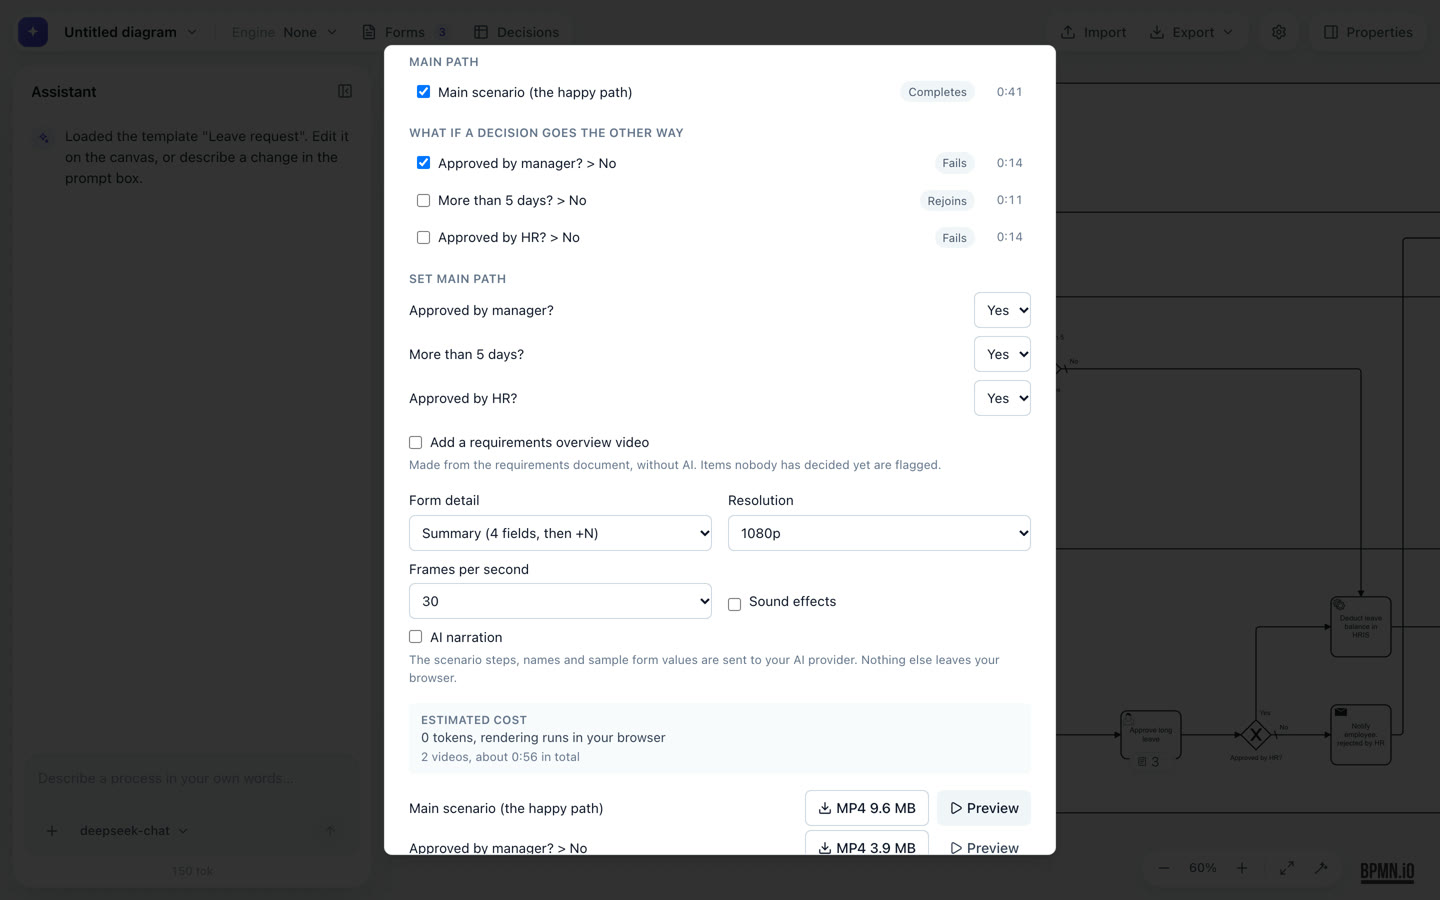
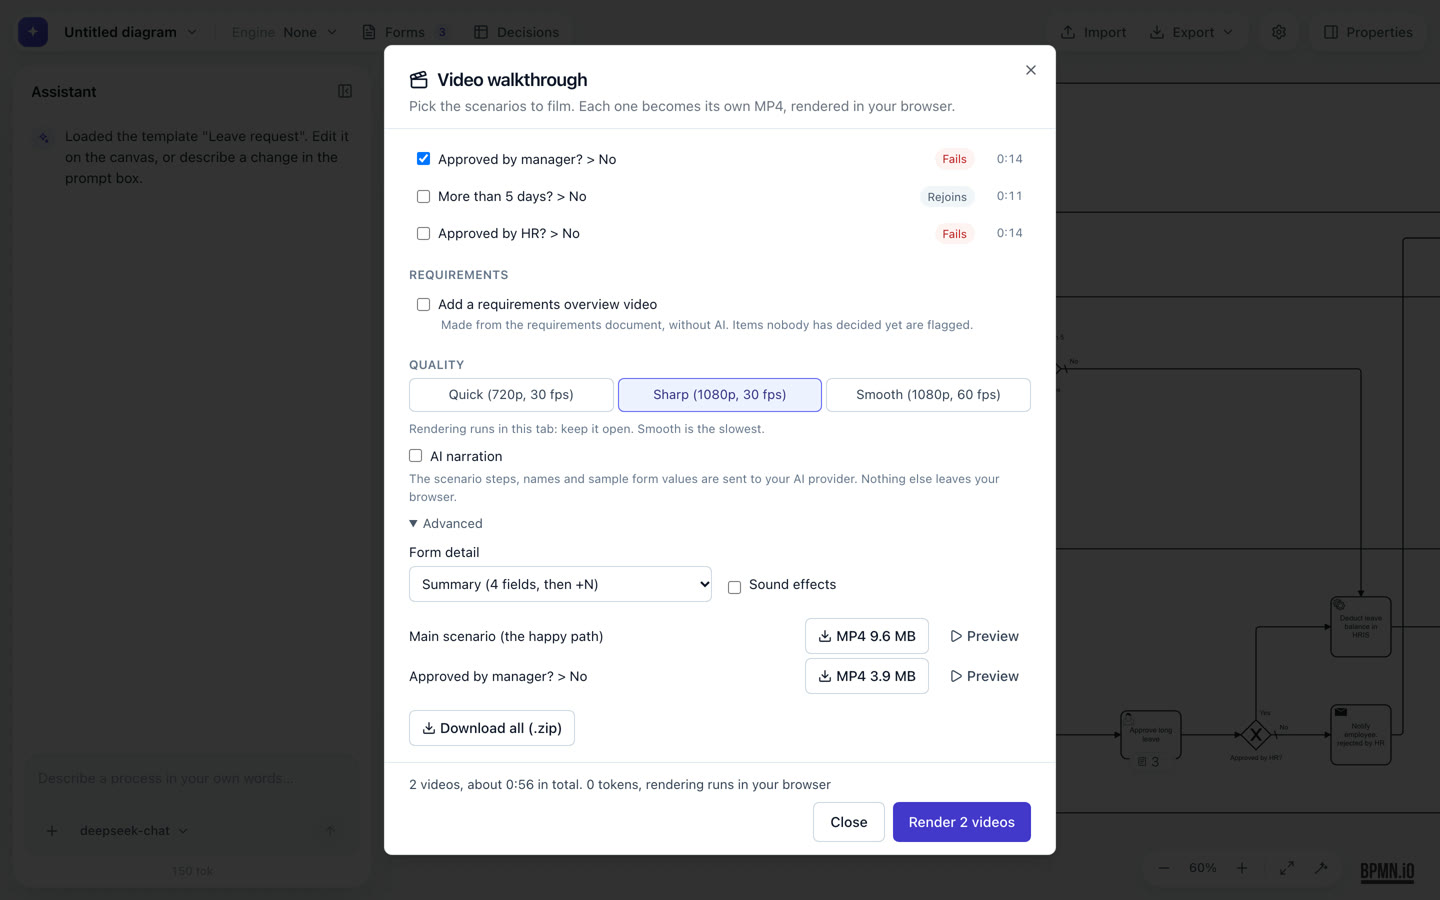
content: update BPMN AI Studio project page and video post to v0.14.0
Project page: requirements document and video walkthrough features, v0.12.0 to v0.14.0 milestones, tech stack, test counts and commit stats. Video post: quality presets, footer and zip download, with new dialog screenshots.

diff --git a/src/content/projects/bpmn-ai-studio.md b/src/content/projects/bpmn-ai-studio.md
@@ -1,8 +1,8 @@
 ---
 title: "BPMN AI Studio"
-description: "A browser app that turns a plain-language description of a work process into a standard BPMN diagram. You can change it by chatting, ask questions about it, and export it. It also makes the form for each step and the decision tables behind a decision, and prepares the diagram for Camunda 7 or 8. It uses your own AI key and has an English and Indonesian interface."
+description: "A browser app that turns a plain-language description of a work process into a standard BPMN diagram. You can change it by chatting, ask questions about it, and export it. It also makes the form for each step and the decision tables behind a decision, and prepares the diagram for Camunda 7 or 8. From the same diagram it writes a requirements document (PRD or SRS) and films a video walkthrough of the process, right in the browser. It uses your own AI key and has an English and Indonesian interface."
 featured: true
-technologies: ["React 19", "TypeScript", "Vite", "bpmn-js", "dmn-js", "Vercel AI SDK", "Zod", "Zustand", "Tailwind CSS", "Camunda moddle", "bpmnlint", "FEEL lint", "dnd-kit", "Vitest", "Playwright"]
+technologies: ["React 19", "TypeScript", "Vite", "bpmn-js", "dmn-js", "Vercel AI SDK", "Zod", "Zustand", "Tailwind CSS", "Camunda moddle", "bpmnlint", "FEEL lint", "dnd-kit", "docx", "WebCodecs", "mediabunny", "Vitest", "Playwright"]
 liveUrl: "https://bpmn-ai-studio.pages.dev/"
 githubUrl: ""
 image: "/images/bpmn-ai-studio/diagram-v011-en.png"
@@ -14,7 +14,7 @@ Every company has processes: approving leave, handling an order, fixing an IT pr
 
 **BPMN** (Business Process Model and Notation) is the international standard for these diagrams. Because it is a standard, a BPMN file can be opened in other tools like Camunda or bpmn.io. The problem is that drawing BPMN by hand takes time and training.
 
-BPMN AI Studio lets you type a process the way you would explain it to a colleague, for example *"the employee submits a leave request, the manager approves or rejects it, and HR updates the records"*, and get a clean BPMN diagram back. Since then it has grown past the picture. Each step that a person does can get its own form, a decision can get a decision table, and the same diagram can be prepared for a Camunda 7 or 8 engine. It is for people who need to explain or improve a process but do not know BPMN: HR and operations staff, process owners, business analysts, auditors, and students, and for developers who prepare a process for Camunda.
+BPMN AI Studio lets you type a process the way you would explain it to a colleague, for example *"the employee submits a leave request, the manager approves or rejects it, and HR updates the records"*, and get a clean BPMN diagram back. Since then it has grown past the picture. Each step that a person does can get its own form, a decision can get a decision table, and the same diagram can be prepared for a Camunda 7 or 8 engine. For people who will never read BPMN, it writes a requirements document and films the process as a short video. It is for people who need to explain or improve a process but do not know BPMN: HR and operations staff, process owners, business analysts, auditors, and students, and for developers who prepare a process for Camunda.
 
 ## Goals
 
@@ -25,6 +25,7 @@ BPMN AI Studio lets you type a process the way you would explain it to a colleag
 - Run with **no account and no app server**: the user brings their own AI key, and everything stays in the browser
 - Help a diagram reach a real engine: a **Camunda 7 or 8** file keeps its engine settings through an AI edit and an export, and a new diagram can be prepared for either engine, with placeholders and checks
 - Cover what a process needs around the diagram: the **form** each person fills in, and the **decision tables** behind a decision, both made and changed by chat
+- Explain the process to people who do not read BPMN: a **requirements document** and a **video walkthrough**, both made from the diagram, with AI only as an option
 
 ## Key Features
 
@@ -38,7 +39,7 @@ Since v0.6.0 the diagram fills the whole window, and everything else floats over
 
 ![The form builder for the User Task "Fill in leave form": a field palette on the left, a form with five fields (full name, leave type, start and end date, and a reason that is shown only when the leave type is Other), and an inspector on the right with Field, Validation and Logic tabs for the selected "Leave type" dropdown](/images/bpmn-ai-studio/forms-v011.png)
 
-6. **Decisions (DMN)**: DMN is the sister standard of BPMN, for decision tables. The **Decisions** button opens a workspace for decision tables next to the diagram. Ask *"buat tabel keputusan kredit: skor di bawah 600 ditolak, ..."* and the assistant writes the table. A Business Rule Task in the diagram links to the decision it calls, and one request can draw the process and write its tables together. `.dmn` files can be imported and exported.
+6. **Decisions (DMN)**: DMN is the sister standard of BPMN, for decision tables. The **Decisions** button opens a workspace for decision tables next to the diagram. Ask *"buat tabel keputusan kredit: skor di bawah 600 ditolak, ..."* and the assistant writes the table. A Business Rule Task in the diagram links to the decision it calls, and one request can draw the process and write its tables together. `.dmn` files can be imported and exported, and **Delete all decisions** clears them in one step, with Undo.
 
 ![The Decisions workspace in table view: a "Leave approver" decision table with the inputs Leave type and Days, the output Approver, five rules and the UNIQUE hit policy, with a details panel next to it](/images/bpmn-ai-studio/decisions-v011.png)
 
@@ -46,11 +47,18 @@ Since v0.6.0 the diagram fills the whole window, and everything else floats over
 
 ![A Camunda 8 diagram with the call activity "Check leave balance" selected, the Properties card open on its "Called element" field, and the issues card showing "Engine checks (2)" with a Show link for each check](/images/bpmn-ai-studio/properties-v011.png)
 
-8. **Import and export**: open a `.bpmn` or `.dmn` file, and download the diagram as **PNG** (for documents and chat), SVG, or `.bpmn`. Decisions export as `.dmn`.
-9. **Image input**: attach a photo of a whiteboard sketch, and the AI reads the process from it. The attach button follows the chosen model and is switched off for a model that cannot read images.
-10. **Workspace**: keep several diagrams, each with its own chat, history, forms and decisions, and back them all up to one JSON file. Six ready-made templates (English and Indonesian) let you start without a key.
-11. **Two languages**: the interface is in English and Indonesian. It follows the browser language and can be changed in Settings. The AI answers in the language the user writes in. The labels of the Properties panel are still English.
-12. **Bring your own key**: choose OpenAI, Anthropic Claude, Google Gemini, DeepSeek (the default, because it is cheap), or any OpenAI-compatible endpoint. The model list is loaded from the provider and shows chat models only, and the defaults are current ones (Claude Sonnet 5.5, GPT-6 Luna, Gemini 3.5 Flash-Lite). There is a **Test connection** button, a **Clear stored key** button, and an approximate session cost in USD next to the token count. When the credit or quota of a key is used up, the app says so at once instead of retrying.
+8. **Requirements document**: **Export → Requirements document…** reads the diagram, its forms and its decisions and writes a PRD or an SRS, in English or Indonesian: actors, steps, user stories, business rules from the gateways, acceptance criteria, a data dictionary from the forms, a traceability matrix and the open questions. Sections can be switched off or edited in place, and a section you edited is marked outdated when the diagram changes. **Write with AI** drafts only the narrative parts (summary, goals, scope), which you apply or discard. Download it as PDF (print), Word or Markdown.
+9. **Video walkthrough**: **Export → Video walkthrough…** films the process as MP4 videos, rendered in the browser. You pick the main path (and which way each decision goes), what-if videos for the other branches and for exceptions, the message exchange between pools, and an optional requirements overview. Forms fill themselves in with sample values, decision tables are checked with sample inputs, and the walk goes inside subprocesses. Quality is one choice (Quick 720p, Sharp 1080p, Smooth 1080p at 60 fps), and finished videos can be previewed, downloaded one by one, or saved together as a zip. With AI narration off it costs 0 tokens, and the footer of the dialog shows the cost before anything is sent. How it works: [Turning a BPMN Diagram into a Video, Entirely in the Browser](/blog/bpmn-diagram-to-video).
+
+![The Video walkthrough dialog for the leave-request process: the main scenario and the what-if "Approved by manager? > No" picked, the Sharp quality preset, and a footer with 2 videos, about 0:56 and 0 tokens](/images/bpmn-video/dialog.jpg)
+
+![A frame of the exported main-scenario video: the decision "More than 5 days?" lit on the diagram, and the card on the right showing the chosen Yes branch](/images/bpmn-video/main-decision.jpg)
+
+10. **Import and export**: open a `.bpmn` or `.dmn` file, and download the diagram as **PNG** (for documents and chat), SVG, or `.bpmn`. Decisions export as `.dmn`, the requirements document as PDF, Word or Markdown, and the walkthrough as MP4 (WebM where the browser has no MP4 encoder).
+11. **Image input**: attach a photo of a whiteboard sketch, and the AI reads the process from it. The attach button follows the chosen model and is switched off for a model that cannot read images.
+12. **Workspace**: keep several diagrams, each with its own chat, history, forms and decisions, and back them all up to one JSON file. Six ready-made templates (English and Indonesian) let you start without a key.
+13. **Two languages**: the interface is in English and Indonesian. It follows the browser language and can be changed in Settings. The AI answers in the language the user writes in. The labels of the Properties panel are still English.
+14. **Bring your own key**: choose OpenAI, Anthropic Claude, Google Gemini, DeepSeek (the default, because it is cheap), or any OpenAI-compatible endpoint. The model list is loaded from the provider and shows chat models only, and the defaults are current ones (Claude Sonnet 5.5, GPT-6 Luna, Gemini 3.5 Flash-Lite). There is a **Test connection** button, a **Clear stored key** button, and an approximate session cost in USD next to the token count. When the credit or quota of a key is used up, the app says so at once instead of retrying.
 
 ## Architecture
 
@@ -90,6 +98,8 @@ localStorage (diagrams, chat, snapshots, forms, decisions, settings; storage sch
 - **camunda-bpmn-moddle, zeebe-bpmn-moddle, camunda-dmn-moddle, zeebe-dmn-moddle**: let the canvas read and write Camunda 7 and 8 attributes, for diagrams and decisions, so imported engine settings are not dropped
 - **bpmnlint**: runs in the app as **Engine checks**, with the Camunda compatibility rules for 7.20 to 7.24 and 8.6 to 8.11 plus my own Camunda 7 rules. It loads only for a Camunda diagram. A developer script still checks `.bpmn` files
 - **dnd-kit**: drag and drop in the form builder, also with the keyboard
+- **docx**: writes the Word version of the requirements document. It loads only when you click Word
+- **WebCodecs + mediabunny**: encode the walkthrough videos in the browser, from a Canvas 2D renderer. Sound effects are synthesised with an `OfflineAudioContext`, so there are no audio files. mediabunny loads only when the first video is encoded
 - **Vercel AI SDK**: one way to talk to all the AI providers, with streaming
 - **Zod**: checks that the model's JSON has the right shape
 - **Zustand**: app state
@@ -127,13 +137,16 @@ Diagrams and undo snapshots moved to new storage keys in v0.4.0. On first open, 
 ### Plain-language errors
 Provider errors (wrong key, no credit, rate limit, network) become short sentences with the provider name. Warnings use element names instead of ids. A **Copy diagnostics** button copies a report (with keys removed), and I can turn that report into a test fixture. A used-up credit or quota now says so at once instead of retrying six times.
 
+### The video walks the process like a token
+The forms walkthrough only followed sequence flows from the first start event. Measured on the 26 sample diagrams in the repo, 14 had parts it never reached (boundary events, subprocesses, link jumps, other pools). So the video has its own pure walker that moves like a BPMN token: parallel splits as one group, loops walked once, branches that rejoin the main path, subprocesses entered and left. After it come a storyboard (scenes as plain data), a renderer that draws any moment `t`, and the encoder. The optional AI only rewrites captions, and a scene it gets wrong keeps its data caption, so the video never depends on the model.
+
 ### A separate release branch
 Daily work goes to `main`, where every push runs build and lint (about one minute). The live site deploys only from a `release` branch on Cloudflare Pages. I move `main` to `release` with a fast-forward merge after build, lint, unit tests, and browser tests are green, so testers only see a version that passed everything.
 
 ### Tests
 - **16 selfcheck files**: small scripts that run the core pipeline modules in Node (schema, normalize, validation, XML, layout, diff)
-- **3,201 Vitest tests** in 300 files, including property tests that generate random valid diagrams and check the round trip, and a corpus of about 250 diagrams for layout quality
-- **432 Playwright browser tests** in 68 files, using a mock AI server that sends fixed answers. They run in parallel against a production build in about two minutes. One suite runs the same edits through the patch path and the full import path, and both must give the same diagram
+- **3,629 Vitest tests** in 338 files, including property tests that generate random valid diagrams and check the round trip, and a corpus of about 250 diagrams for layout quality
+- **452 Playwright browser tests** in 70 files, using a mock AI server that sends fixed answers. They run in parallel against a production build in about two minutes. One suite runs the same edits through the patch path and the full import path, and both must give the same diagram
 - A **live eval** with real prompts against a real provider, scoring each edit for compliance and precision (nothing else touched), now also for decision tables and the router. It needs an API key, so it runs by hand, not in CI
 - A **Docker smoke test** that deploys sample diagrams and decisions to Camunda 7.22 and 8.8.5. It is not part of CI
 
@@ -153,6 +166,9 @@ Releases on the way (the live site deploys from the `release` branch):
 - **v0.7.0 (1 Nov)**: forms for every User Task, the walkthrough, and an easier-to-read layout. **v0.8.0 (1 Nov)**: selection as context. **v0.8.1** lets answers see forms and the screen.
 - **v0.9.0 (2 Nov)**: decisions (DMN). **v0.10.0 (2 Nov)**: forms by chat, the Forms button, and the diagram that draws itself. **v0.10.1** adds ranking tables and batches for many forms.
 - **v0.11.0 (2 Nov)**: help in the Properties panel and Engine checks for Camunda 7 and 8.
+- **v0.12.0 (2 Nov)**: the requirements document (PRD or SRS) with PDF, Word and Markdown download, and Write with AI for the narrative sections.
+- **v0.13.0 (4 Nov)**: the video walkthrough: main path, what-ifs, exceptions, message exchange, subprocesses, decision tables, a requirements overview video, and optional AI narration.
+- **v0.14.0 (4 Nov)**: an easier video form (quality presets, a footer with progress, Advanced options, remembered settings), Download all as zip, and Delete all decisions.
 - **Next**: an engine version picker, a link from a form to its User Task in the exported file, FEEL autocomplete, and Indonesian labels in the Properties panel. Then a trial mode so testers can start without a key (a small server that holds a key with a daily limit), an open beta with abuse protection and a template gallery, an agent that can take several steps on its own with checks after each step, memory of the user's naming habits, and later a self-hosted version for companies.
 
 ## Development Time
@@ -163,7 +179,8 @@ I built this project together with AI coding agents, mostly **Claude Code**. The
 - **Main build (24 to 28 October 2026)**: about 15 hours for 205 commits. Validation, auto-layout, BPMN import, the patch-and-verify edits, browser tests, the workspace, two languages, the M0 hardening, and the M1 alpha features
 - **Releases v0.2.0 to v0.4.0 (29 to 30 October 2026)**: about 16 hours for 145 commits. Templates, the layout engine fork, the dynamic model catalog, Camunda data round trip, and storage v2
 - **Releases v0.5.0 to v0.11.0 (31 October to 2 November 2026)**: about 25 hours for 199 commits. Engine settings and placeholders, the floating layout, forms, decisions (DMN), and engine checks
-- **Total**: about 64 active hours for about 605 commits, spread over 12 working days
+- **Releases v0.12.0 to v0.14.0 (2 to 4 November 2026)**: 48 commits on `main`. The requirements document and the video walkthrough. Much of the video work was squashed into a few commits before the merge, so the commit gaps do not give a useful hour count for this part
+- **Total up to v0.11.0**: about 64 active hours for about 605 commits, spread over 12 working days. With v0.12.0 to v0.14.0 it is about 655 commits over 14 working days
 
 This number is a lower bound, because the agents often made several commits at the same time and time between sessions is not counted. My role was mostly the plan and milestones, architecture decisions, review, and testing in the browser. The agents wrote most of the code, and the tests and CI kept it honest. For me, this is the main lesson: with AI agents and a good test suite, one person can ship a real product in a few days, not a few months.
 

diff --git a/src/content/blog/bpmn-diagram-to-video.md b/src/content/blog/bpmn-diagram-to-video.md
@@ -24,9 +24,9 @@ You pick what to film:
 - **What-if videos**, one per decision branch ("what if the manager says No?"), one per boundary event (a timer or an error on a task), and one for the messages between pools.
 - **A requirements overview**, made from the requirements document the app already builds, without AI.
 
-You also pick 720p or 1080p, 30 or 60 fps, sound effects and an optional AI narration. Before anything runs, the dialog shows what it will cost. With narration off, the answer is *0 tokens*: everything happens in your browser.
+You also pick a quality (Quick 720p/30 fps, Sharp 1080p/30 fps or Smooth 1080p/60 fps) and an optional AI narration; form detail and sound effects sit under **Advanced**. Before anything runs, the footer of the dialog shows the total length and what it will cost. With narration off, the answer is *0 tokens*: everything happens in your browser.
 
-![The Video walkthrough dialog: the main scenario and one what-if picked, 1080p, and the cost block saying 0 tokens](/images/bpmn-video/dialog.jpg)
+![The Video walkthrough dialog: the main path set, the main scenario and one what-if picked, the Sharp quality preset, and a footer saying 2 videos, about 0:56, 0 tokens](/images/bpmn-video/dialog.jpg)
 
 This is the main scenario exactly as the app exported it (41 seconds, scaled down to 720p for this page, no sound):
 
@@ -111,9 +111,9 @@ For encoding I use [mediabunny](https://mediabunny.dev/), a TypeScript library o
 
 Sound effects are not audio files. They are synthesised with an `OfflineAudioContext` from the cues of each scene: filtered noise for a whoosh or a click, short oscillator sweeps for a pop, a tick, a ding or a chime. Nothing to download, and the sound always matches the animation because both come from the same cue times.
 
-Rendering runs in a queue, one scenario after another. Cancel stops between frames, and each finished video can be previewed in the dialog before you download it.
+Rendering runs in a queue, one scenario after another, with overall progress in the footer. Cancel stops between frames. Each finished video can be previewed in the dialog, downloaded on its own, or, from two videos on, downloaded together as one zip.
 
-![The dialog after a run: two MP4 files, 9.6 MB and 3.9 MB, each with a preview button](/images/bpmn-video/dialog-done.jpg)
+![The dialog after a run: two MP4 files, 9.6 MB and 3.9 MB, each with a Preview button, and Download all (.zip) below them](/images/bpmn-video/dialog-done.jpg)
 
 ## Where AI Fits (and Where It Does Not)
 
